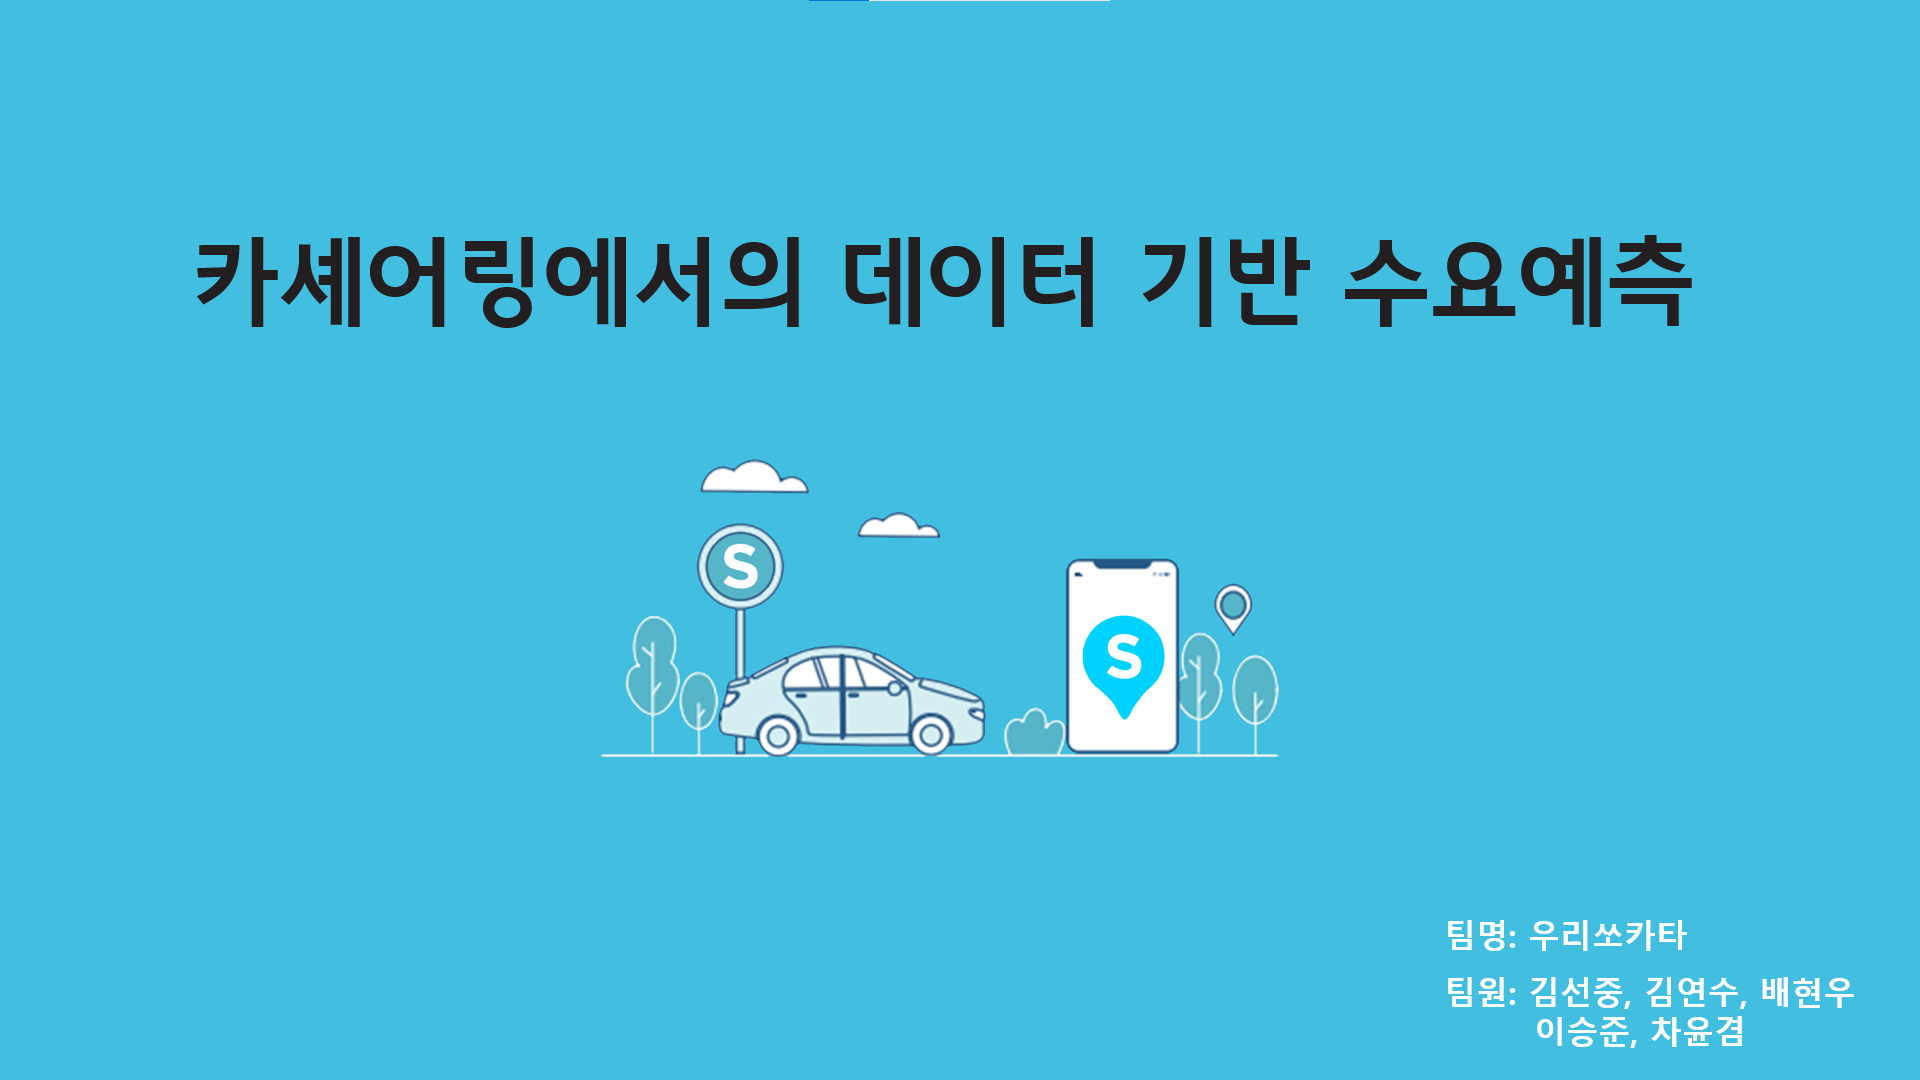
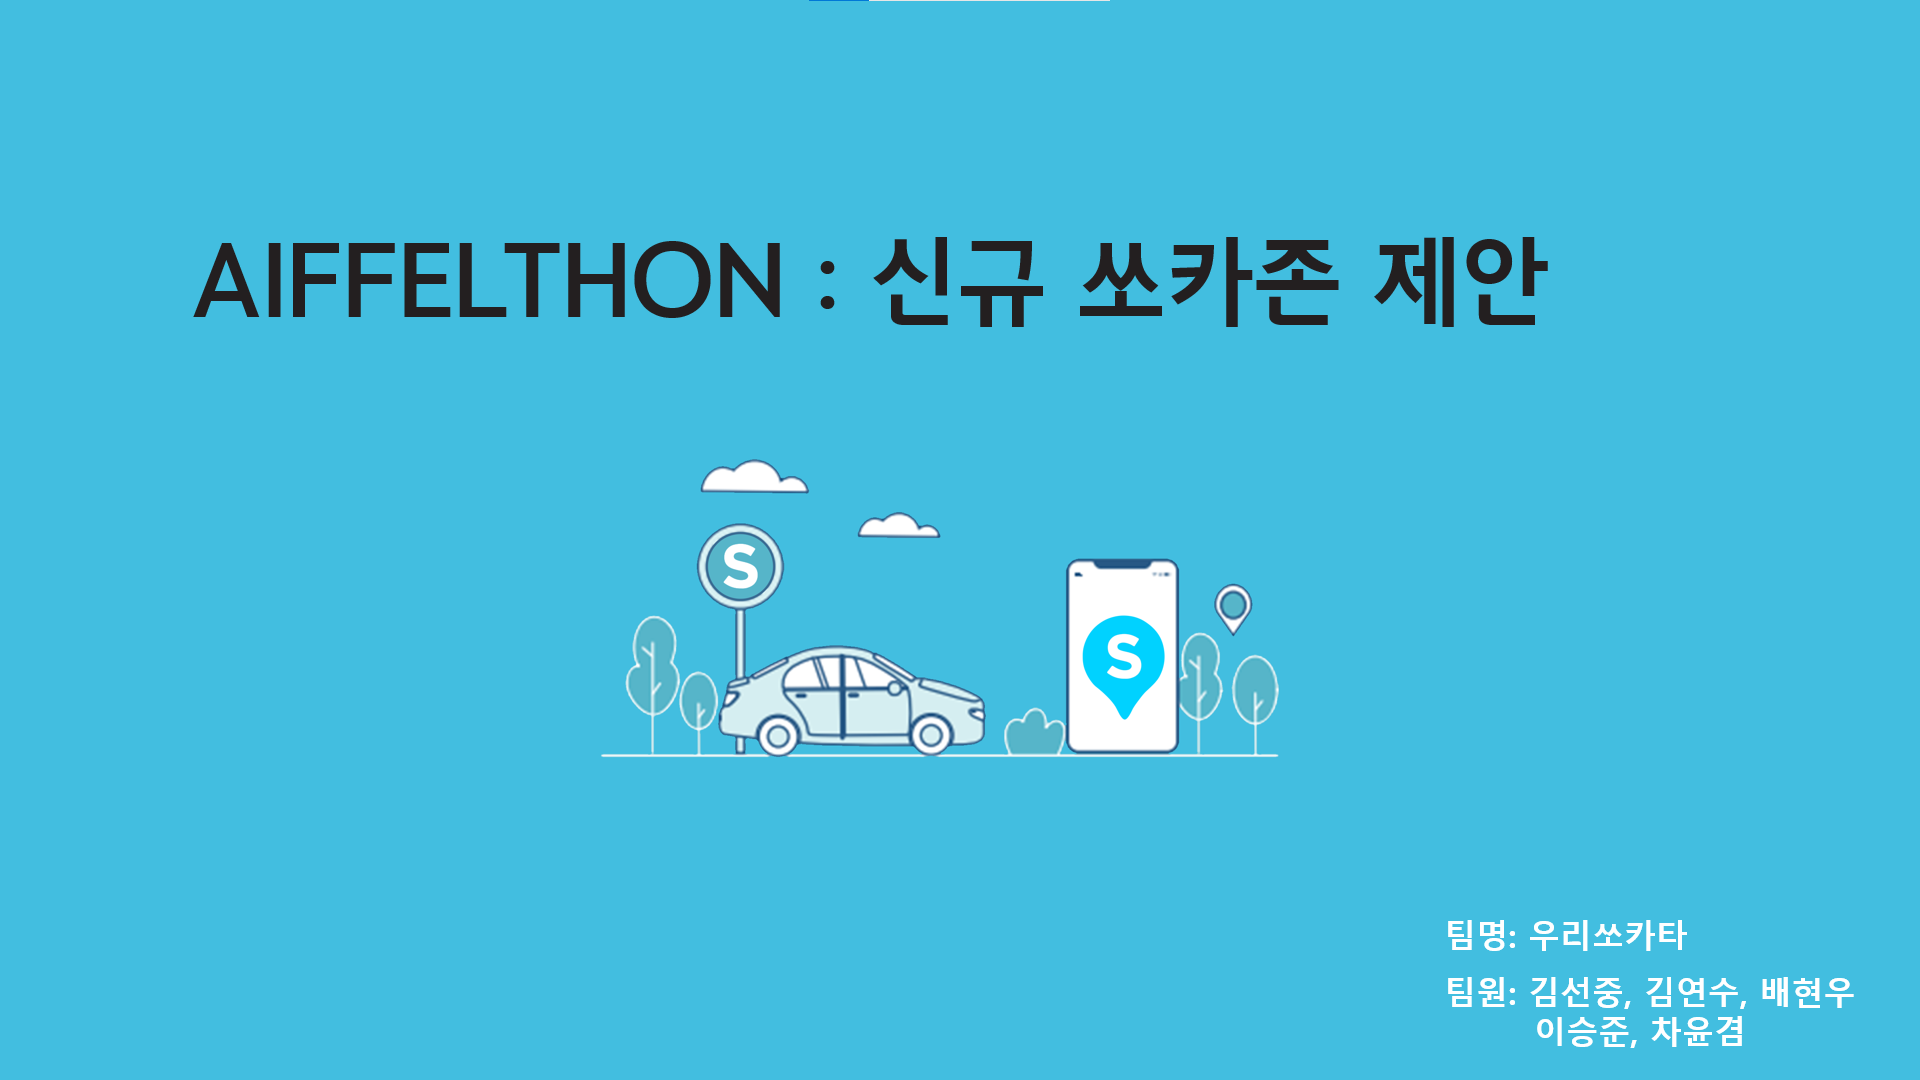
socar ing

Changed region(s): [[0.0938, 0.2139, 0.875, 0.3056]]

diff --git a/_posts/2023-04-13-socar_zones.md b/_posts/2023-04-13-socar_zones.md
@@ -8,23 +8,144 @@ publish: false
 author_profile: false
 ---
 
-이 포스트는 AIFFEL(인공지능 교육과정)에서 진행한 최종 프로젝트에 대한 정리입니다.
+2022년 8월부터 2023년 2월까지 AIFFEL이라는 이름의 인공지능 교육과정에 참여했습니다.
+이 포스트는 해당 과정의 최종 프로젝트에 대한 정리입니다.
+
+카셰어링 업체 SOCAR로부터 45만여 건의 SOCAR 사용이력 데이터를 제공받았습니다.
+그 중 다섯 건의 사용이력은 다음과 같습니다.
+
+![]({{site.url}}\images\2023-04-14-socar_zones\original_socar_data.png){: .img-75-center}
+
+사용이력에 포함된 feature들은 각각 `지역1`(대지역), `지역2`(소지역), `대여시작시각`, `대여종료시각`, `나이대`, `성별`, `차종`입니다.
+
+이 데이터(이하 `수요 데이터`)를 바탕으로 하여, 자유롭게 주제를 정하고, 유의미한 결과를 내는 것이 이 최종 프로젝트(AIFFELTHON)의 목표였습니다.
+저희 팀은, `수요 데이터`를 바탕으로 하여 **신규 쏘카존의 위치를 제안**해보았습니다.
+
+---
+
+이 프로젝트에 대한 public 깃허브는 [이곳](https://github.com/govin08/our-socar)에 있습니다.
+프로젝트의 상세한 진행사항은 [이곳](https://www.notion.so/modulabs/e9651dcbc43c4d0e95954ef1963426f1)에 기록되어 있습니다.
 
 # 발표자료
 
 ![]({{site.url}}\images\2023-04-14-socar_zones\Slide1.PNG){: .img-100-center}
 
-
-
 ![]({{site.url}}\images\2023-04-14-socar_zones\Slide2.PNG){: .img-100-center}
+
+발표자료의 목차입니다.
+01과 02에서는 프로젝트의 전반적인 사항에 대해 대략적으로 이야기하고, 03부터 06까지는 네 단계에 걸쳐서 프로젝트의 진행상황을 적었습니다.
 
 ![]({{site.url}}\images\2023-04-14-socar_zones\Slide3.PNG){: .img-100-center}
 
+프로젝트의 배경 및 목적입니다.
+
+저희 팀은 지역별로 쏘카의 이용 수에 차이가 있음을 먼저 관찰했습니다.
+단순히 이용 수가 많고 적음을 넘어서서 이용 수가 증가세를 보이는지, 감소세를 보이는지 하는 것을 관찰할 수 있었습니다.
+이러한 증감 경향을 지역별로 나누어 바라보는 것이 의미있을 것이라고 판단했습니다.
+
+수요가 증가할 것으로 예상되는 지역과 감소할 것으로 예상되는 지역 중 저희 팀이 주목한 것은 수요가 증가할 것으로 예상되는 지역이었습니다.
+수요가 증가할 것으로 예상되는 지역에 대해서는 새로운 쏘카존을 만들 필요가 있을 것입니다.
+그리하여, 이번 프로젝트는 신규 쏘카존의 위치를 제안하는 것을 그 목표로 잡았습니다.
+
 ![]({{site.url}}\images\2023-04-14-socar_zones\Slide4.PNG){: .img-100-center}
+
+전체적인 프로젝트의 구조입니다.
+프로젝트의 전체 내용을 한마디로 요약하면 다음과 같습니다.
+
+*경기도 지역을 6개의 군집으로 나눈 후 각 군집별로 수요를 예측하여 미래에 수요가 증가할 것으로 예상되는 지역을 선정한 뒤, 해당 지역에 대하여 신규 쏘카존의 위치를 제안한다.*
+{: .text-center}
+
+프로젝트의 전체 과정은 네 단계로 나누어보았는데, 각각 '데이터 분석', '군집화', '수요예측', '신규존 제안' 입니다.
+각각의 단계에 대한 설명은 다음과 같습니다.
+
+ - 데이터 분석 : 군집화에서 사용할 feature들을 정한다.
+ - 군집화 : k-means clustering을 통해 경기도 42개 지역을 6개 군으로 나눈다.
+ - 수요예측 : 각 군들에 대하여 가장 수요가 증가할 것으로 예상되는 지역을 선정한다.
+ - 신규존 제안 : 선정한 지역에 대하여 신규 쏘카존의 위치를 제안한다.
+
+## 데이터 분석
 
 ![]({{site.url}}\images\2023-04-14-socar_zones\Slide5.PNG){: .img-100-center}
 
+저희 팀은 수많은 지역들 중 경기도를 타겟으로 삼았습니다.
+그 이유는, 제공받은 `수요 데이터` 대부분(77.96%)이 경기도의 데이터였기 때문이었는데요.
+`수요 데이터`는 `지역1`(대지역) 기준으로 경기도, 울산광역시, 전라북도, 세종특별자치시, 부산광역시의 다섯 곳의 지역을 포함하고 있었습니다.
+그 중 가장 많은 양의 데이터가 포함되어 있기도 하고, 지리적인, 그리고 행정적인 유사성을 따져보더라도, 경기도를 주요 관심지역으로 삼는 것이 가장 타당해보였습니다.
+
 ![]({{site.url}}\images\2023-04-14-socar_zones\Slide6.PNG){: .img-100-center}
+
+`수요 데이터` 중 경기도 지역 데이터는 `지역2`(소지역)을 기준으로 16개 소지역으로 나뉩니다.
+그것들은
+[시](https://ko.wikipedia.org/wiki/%EC%8B%9C_(%ED%96%89%EC%A0%95_%EA%B5%AC%EC%97%AD)),
+[군](https://ko.wikipedia.org/wiki/%EB%8C%80%ED%95%9C%EB%AF%BC%EA%B5%AD%EC%9D%98_%EA%B5%B0),
+[구](https://ko.wikipedia.org/wiki/%EB%8C%80%ED%95%9C%EB%AF%BC%EA%B5%AD%EC%9D%98_%EA%B5%AC)
+를 의미합니다.
+- 시(市) : 자치구를 따로 가지고 있지 않은 소도시 (e.g. 이천시, 포천시)
+- 군(郡) : 시보다 규모가 작은 지역 (e.g. 양평군, 가평군)
+- 구(區) : 자치구를 가지고 있는 대도시의 자치구(e.g. 수원시 팔달구, 수원시 만안구)
+
+그런데 경기도의 시/군/구는 총 42개입니다.
+그러니까 `수요 데이터`는 경기도의 모든 시/군/구의 데이터를 포함하고 있지 않습니다.
+만약 42개 지역을 군집화하고, 16개 지역에 대한 수요들을 바탕으로 군집별 수요 증감을 예측한다면, 수요 정보가 없는 지역에 대해서도 수요의 증감을 간접적으로 예상할 수 있게 됩니다.
+
+이것이 가능하려면 군집화가 '잘' 되어야 합니다.
+카셰어링 수요를 잘 반영하는 군집화가 되어야 합니다.
+다시 말해, 카셰어링 수요와 관련된 지역별 feature들을 잘 선정하고 그 feature들을 통해 군집화를 진행해야 합니다.
+
+카셰어링 수요를 잘 반영하는 feature를 찾기 위해 먼저 논문들을 살폈습니다.
+대표적으로 참고한 논문은 [서울시의 카셰어링 이용도에 대한 지역적 요인특성분석](https://www.dbpia.co.kr/journal/articleDetail?nodeId=NODE02497522)입니다.
+이 논문의 결론을 읽어보면 어떤 지역이 업무중심지역이거나 역세권, 혹은 대학가이면 카셰어링 수요가 많다고 되어 있습니다.
+또한 해당 지역이 주거지인지 여부 또한 카셰어링 수요에 영향을 미친다는 언급이 있습니다.
+그밖에 대중교통이 용이한 지역이어도 카셰어링 수요가 많다는 것과 토지용도 또한 고려의 대상이 될 수 있다는 말들도 있습니다.
+
+이러한 사항들을 바탕으로 하여 총 17종의 feature들을 선정하고, 경기도의 42개 지역에 대하여 해당 feature들에 대한 데이터를 모았습니다.
+그리고 이 데이터를 `지역별 데이터`라고 명명했습니다.
+수집한 feature들의 목록은 다음과 같습니다.
+- `쏘카존 수`
+- `인구`
+- `2030인구`
+- `아파트 수`
+- `행복주택 수`
+- `지하철역 수`
+- `환승역 수`
+- `버스정류장 수`
+- `대학교 수`
+- `대학생 수`
+- `녹지`
+- `주거`
+- `공업`
+- `상업`
+- `위도`
+- `경도`
+- `면적`
+
+위 feature들에 대한 상세한 설명은 다음과 같습니다.
+- `인구`는 직접적으로 데이터를 얻을 수 있었으나, `2030인구`는 직접 데이터를 얻을 수는 없었습니다.
+하지만 각 광역별(구를 가지고 있는 시별) 인구비율 데이터를 얻을 수 있었고, 이를 통해 `2030인구`를 간접적으로 구했습니다.
+- feature들 중 수작업을 통해 데이터를 확보한 것은 `녹지`, `주거`, `공업`, `상업`입니다.
+[지도](https://gris.gg.go.kr/)를 통해 살펴보며 해당 시/군/구의 하위행정구역(e.g. 동, 읍, 면)에 대하여 `녹지`, `주거`, `공업`, `상업` 중 하나의 토지용도를 결정했습니다.
+해당 시/군/구의 `녹지` 데이터는 해당 시/군/구의 하위행정구역 중 얼마만큼의 비율의 하위행정구역이 `주거`인지를 나타냅니다.
+예를 들어, 수원시 장안구의 경우 열 개의 동을 가지고 있고, 각각의 동들은
+
+![]({{site.url}}\images\2023-04-14-socar_zones\landuse.png){: .img-50-center}
+
+와 같은 토지용도를 가지고 있다면, 3개 동이 `녹지`이므로 수원시 장안구 지역의 `녹지`는 $\frac3{11}=0.2727$로 정합니다.
+8개 동이 `주거`이므로 수원시 장안구 지역의 `주거`는 $\frac8{11}=0.7273$으로 정합니다.
+그밖에 `공업`과 `상업`은 한번도 나타나지 않았으므로 각각 0입니다.
+- `위도`와 `경도`, `면적`은 지리적인, 혹은 기하학적인 feature이므로 쏘카수요와 직접적으로 연관이 있다고 말할 수 없습니다.
+이것들은 참고용으로, 혹은 대조군의 역할을 위해 구해놓은 것입니다.
+
+이 17종의 feature들 중 `이용 수`(쏘카 사용량)와 상관성이 높은 열 개의 feature를 선별했습니다.
+여기에서 '상관성'이라 함은 상관계수(pearson correlation coefficient)를 의미합니다.
+또, `이용 수`는 지역별 쏘카 수요를 의미하는 것으로, `수요 데이터`로부터 손쉽게 얻을 수 있습니다.
+17종의 feature에 대한 `이용 수`와의 상관계수는
+
+![]({{site.url}}\images\2023-04-14-socar_zones\correlation.png){: .img-20-center}
+
+
+
+
+
 
 ![]({{site.url}}\images\2023-04-14-socar_zones\Slide7.PNG){: .img-100-center}
 
@@ -42,3 +163,4 @@ author_profile: false
 
 ![]({{site.url}}\images\2023-04-14-socar_zones\Slide14.PNG){: .img-100-center}
 
+# 주요 코드 및 상세 결과
